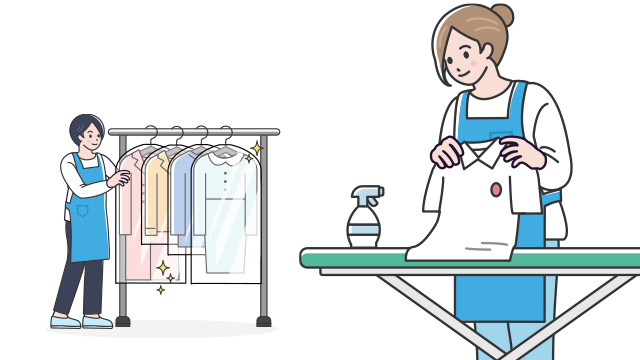
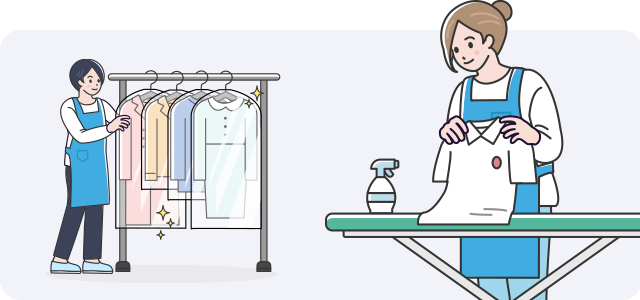
메인UI수정

diff --git a/src/views/Home.vue b/src/views/Home.vue
@@ -195,8 +195,6 @@ export default {
 .home{
   position: relative;
   padding-bottom:40px;
-  
-
   ul{
     padding:0;
     margin:0;
@@ -246,7 +244,7 @@ export default {
 
     .visual{
       position: relative;
-      margin-bottom:30px;
+      margin-bottom:20px;
 
         .visual-title{
           position: relative;
@@ -255,12 +253,12 @@ export default {
 
           h1{
           font-weight:normal;
-          font-size:24px;
+          font-size:20px;
           line-height:1.3;
 
           }
           p{
-            font-size:15px;
+            font-size:14px;
             margin:0px;
             margin-top:5px;
             color:#888;
@@ -285,24 +283,7 @@ export default {
           &:after{
             content:'';
             display:block;
-            padding-bottom:56.625%;
-          }
-        }
-
-        .visual-bg{
-          position: absolute;
-          z-index:0;
-          width:100%;
-          bottom:0px;
-          display:flex;
-          align-content: center;
-          justify-content: center;
-          background:#F2F3F8;
-          border-radius:15px;
-          &:after{
-            content:'';
-            display:block;
-            padding-bottom:46.875%;
+            padding-bottom:46.875%; //640x300
           }
         }
     }
@@ -340,7 +321,7 @@ export default {
 
   .infomation{
     display:flex;
-    margin-top:25px;
+    margin-top:20px;
     dl{
       flex:1;
       border-right:1px solid #e2e2e2;

diff --git a/src/components/bottomNavigation.vue b/src/components/bottomNavigation.vue
@@ -7,12 +7,17 @@
     class="bottom_navigation"
   >
     <v-btn @click="$router.push('myOrder')">
+      <span>이용내역</span>
       <v-icon>mdi-text-box-outline</v-icon>
-    </v-btn>
+      
+     </v-btn>
     <v-btn  @click="$router.push('/')">
+      <span>홈으로</span>
       <v-icon>mdi-home-outline</v-icon>
+      
     </v-btn>
     <v-btn  @click="$router.push('mypage')">
+      <span>내정보</span>
       <v-icon>mdi-account-outline</v-icon>
     </v-btn>
   </v-bottom-navigation>
@@ -31,6 +36,13 @@ export default {
 <style lang="scss" scoped>
 .bottom_navigation{
   padding-bottom: env(safe-area-inset-bottom, 15px);
-  padding-bottom: constant(safe-area-inset-bottom, 15px)
+  padding-bottom: constant(safe-area-inset-bottom, 15px);
+}
+.v-btn{
+  height:40px;
+  span{
+    font-size:10px;
+    margin-top:2px;
+  }
 }
 </style>
